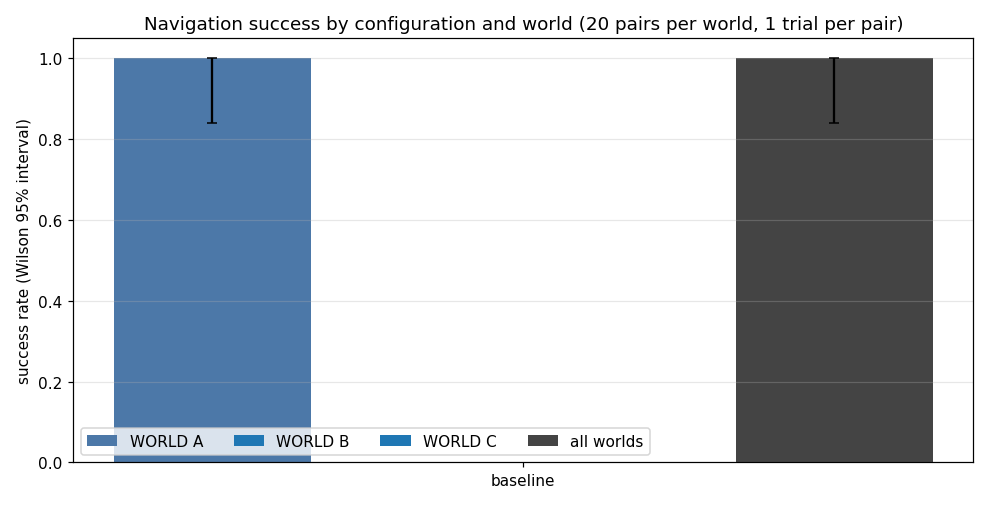
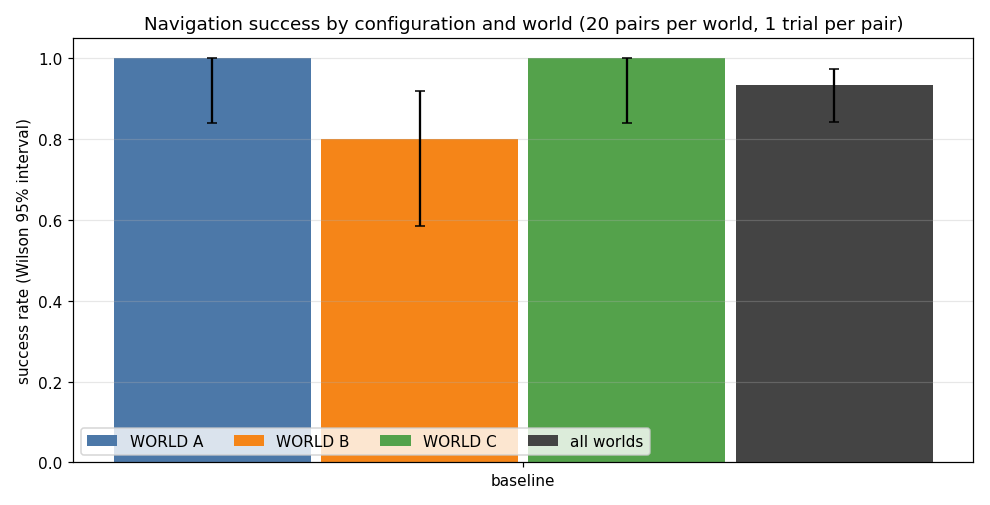
Phase 3: baseline results (60 trials), analysis outputs, baseline report and figure; Phase 3 gate

Changed region(s): [[0.303, 0.0891, 0.9394, 0.9208], [0.2121, 0.8614, 0.2727, 0.8911]]

diff --git a/docs/progress.md b/docs/progress.md
@@ -4,7 +4,7 @@ The external drive can crash, so this file is the memory of the project. Update 
 
 ## Current state
 - Date of last update: 2026-10-26
-- Phase: 3 in progress (owner approved 20 pairs and go-ahead 2026-10-26). Baseline runs: `scripts/run_config.sh baseline` (world A done 20/20; B and C running). Analysis: `scripts/analyse.py`. Done so far: `scripts/env.sh`, timing and real-time-factor check (stock robot), own Burger-based robot (`src/nav_study_robot`, URDF/SDF/bridge, tested in `test_arena`), STEP CAD file for Fusion 360 (`cad/`). Worlds A1/B1/C1 generated and checked; Nav2 configs generated (`configs/nav2/`); SLAM Toolbox maps for all three worlds saved (`maps/`). Left: map-to-world alignment, start/goal pairs, trial runner, metric tests, CI, factor check with own robot.
+- Phase: 3 done (2026-10-26): baseline 56/60 (A 20/20, B 16/20, C 20/20), report `docs/baseline.md`. Phase 4 next, awaiting owner go-ahead and a decision on world C. Done so far: `scripts/env.sh`, timing and real-time-factor check (stock robot), own Burger-based robot (`src/nav_study_robot`, URDF/SDF/bridge, tested in `test_arena`), STEP CAD file for Fusion 360 (`cad/`). Worlds A1/B1/C1 generated and checked; Nav2 configs generated (`configs/nav2/`); SLAM Toolbox maps for all three worlds saved (`maps/`). Left: map-to-world alignment, start/goal pairs, trial runner, metric tests, CI, factor check with own robot.
 - Environment: Ubuntu 24.04 external drive. `scripts/check_env.sh` reports all required items present (Nav2 1.3.13, SLAM Toolbox 2.8.5, Gazebo 8.15.0, pandas) after installing the 4 missing ones on 2026-10-26.
 - Last commit: see `git log -1`.
 
@@ -12,7 +12,7 @@ The external drive can crash, so this file is the memory of the project. Update 
 - [x] Phase 0: `docs/protocol.md` written, draft items in PLAN.md section 3 finalised with the owner, committed before any trial
 - [x] Phase 1: `scripts/check_env.sh` run, result in `docs/environment.md`, missing items installed, smoke test works
 - [x] Phase 2: robot, worlds, trial runner, tests, CI
-- [~] Phase 3: baseline (running)
+- [x] Phase 3: baseline
 - [ ] Phase 4: intervention
 - [ ] Phase 5: diagnosis
 - [ ] Phase 6: extension
@@ -35,6 +35,8 @@ A Nav2 configuration study in simulation: a differential-drive robot in Gazebo b
 
 - 2026-10-26: PROPOSED, awaiting owner: replace 2 repeats x 10 pairs by 1 repeat x 20 pairs per world (same 360 trials). Reason: repeats of the same pair vary by only about 2 percent in time (protocol change log (j)), so the second repeat is nearly redundant, while more pairs widen what the results generalise to and tighten the pair-level interval. Cost: pairs file must be extended (10 more per world, same script and seed rule) before any trial.
 
+- 2026-10-26: PROPOSED, awaiting owner: the baseline is at the ceiling in worlds A and C (20/20), so H2 (custom recovery raises success in the cluttered world) cannot be shown in C1 as built. Options: (a) keep the frozen design and report H2 as untestable in C1 (cost: none, a weak outcome for H2); (b) add a fourth, harder world D = layout C2 from the protocol (dense random boxes, 20 pairs; 120 more trials, about 1.5 h) as a clearly labelled addition made after seeing the baseline, results for A to C reported as originally designed; (c) make C1 harder (closer pillars) and rerun its baseline (changes a frozen world after seeing results; not recommended). Recommended: (b).
+
 ## Ideas parked (suggested, not adopted)
 - None yet.
 
@@ -43,9 +45,9 @@ A Nav2 configuration study in simulation: a differential-drive robot in Gazebo b
 - (resolved 2026-10-26: own robot modelled on TurtleBot 3 Burger.)
 
 ## Next steps
-1. Owner decides: keep 2 repeats x 10 pairs, or 1 repeat x 20 pairs per world (see Plan changes, PROPOSED). If 20 pairs: extend `configs/pairs.yaml` first.
-2. Phase 3: baseline runs (`scripts/run_session.sh baseline world_x 1 1 2`) for the three worlds, then analysis script with Wilson intervals and a baseline figure.
-3. (done in Phase 2:) Nav2 baseline config for our robot (`configs/`), then the trial runner (explicit zero cmd_vel at the end), metric unit tests, CI.
+1. Owner decides how to handle the ceiling in worlds A and C (see Ideas / Plan changes, PROPOSED: add a harder fourth world, or accept that H2 is untestable in C1).
+2. Phase 4: run `scripts/run_config.sh <config>` for smac2d, thetastar, dwb, rpp (4 x 60 trials, about 1 h each); the custom recovery node (config `recovery`) must be written first (Phase 6 item pulled forward, or run the 5 others first).
+3. (done:) Nav2 baseline config for our robot (`configs/`), then the trial runner (explicit zero cmd_vel at the end), metric unit tests, CI.
 3. Repeat the real-time-factor check with our robot and baseline, then log the chosen factor in the protocol change log.
 4. Owner: open `cad/nav_study_robot_v1.step` in Fusion 360 and report anything odd.
 
@@ -64,3 +66,4 @@ A Nav2 configuration study in simulation: a differential-drive robot in Gazebo b
 - 2026-10-26 (Ubuntu): Phase 2 build-out. Added `scripts/align_map.py` (-> `configs/map_alignment.yaml`: A 2.4 deg, B 0.22 m shift, C identity), `scripts/make_pairs.py` (-> `configs/pairs.yaml`, 10 per world, seed 20261026), `src/nav_study_trials` (metrics.py + runner.py, 8 unit tests), `tests/test_study_files.py` (8 tests), `.github/workflows/ci.yml`, `scripts/run_session.sh`, `rtf_check_robot.sh`, `determinism_check.sh`. First end-to-end trials work. Protocol change log (g) success tolerance 0.5 m, (h) real-time factor 1, (i) reset verification, (j) repeatability. Validation CSVs in `results/validation/` (not study data). Left: CI result, Phase 2 screenshot, gate report.
 - 2026-10-26 (Ubuntu): Phase 2 gate. CI fixed twice (git missing in the ros:jazzy image; nav_study_robot installed an untracked empty launch/ dir) and is green. Final figure `docs/figures/phase2-robot-in-world-b.png`; README updated. Temporary screenshots deleted.
 - 2026-10-26 (Ubuntu): Owner chose 20 pairs per world (protocol change (k)); pairs extended (first 10 unchanged). Added `analysis.py` (pre-registered decision rule + 5 unit tests), `scripts/analyse.py`, `scripts/run_config.sh`. Baseline world A: 20/20 succeeded. World B running (first timeouts seen).
+- 2026-10-26 (Ubuntu): Phase 3 baseline complete: 60 trials, 56 succeeded; failures all in world B (3 timeouts, 1 abort; 2 with AMCL error above 0.5 m). Zero collisions. `docs/baseline.md` written, figure `phase3-baseline-success.png`. Open: world-C ceiling (proposal above).

diff --git a/docs/baseline.md b/docs/baseline.md
@@ -1,0 +1,34 @@
+# Phase 3: baseline results
+
+Configuration: **baseline** = shipped Nav2 1.3.13 defaults (NavFn planner, MPPI controller) with only the robot-specific edits (`configs/nav2/CHANGES.md`), SLAM Toolbox map plus AMCL, real-time factor 1. 20 start/goal pairs per world, 1 trial per pair, 60 trials. Trials ran 2026-10-26 in session order A, B, C (session seeds 11, 12, 13; trials shuffled within a session). Raw rows: `results/trials/baseline_world_*.csv`; tables generated by `scripts/analyse.py` into `results/summary.md`.
+
+| world | trials | succeeded | success rate (Wilson 95% interval) | median time (successes) | median path | recoveries per trial | mean AMCL error |
+|---|---|---|---|---|---|---|---|
+| A1 open room | 20 | 20 | 1.00 (0.84 to 1.00) | 44.4 s | 8.4 m | 0.10 | 0.13 m |
+| B1 office | 20 | 16 | 0.80 (0.58 to 0.92) | 64.3 s | 13.0 m | 0.30 | 0.17 m |
+| C1 pillar grid | 20 | 20 | 1.00 (0.84 to 1.00) | 57.8 s | 10.6 m | 1.35 | 0.13 m |
+| all | 60 | 56 | 0.93 (0.84 to 0.97) | 53.9 s | 10.5 m | 0.58 | 0.14 m |
+
+Collisions: 0 contact episodes in all 60 trials. No invalid trials; every reset was accepted at the first attempt.
+
+![Baseline success rate by world](figures/phase3-baseline-success.png)
+
+## The four failures (all in world B)
+| pair | outcome | path driven | AMCL error near the end | reading |
+|---|---|---|---|---|
+| b02 | timeout, 120 s | 18.1 m | up to 1.08 m (localisation failure by the protocol rule) | lost localisation, then wandered |
+| b11 | timeout, 120 s | 18.4 m | up to 0.79 m (localisation failure) | same pattern |
+| b04 | aborted by Nav2 at 90 s | 14.5 m | up to 0.43 m | planning/control (after recoveries) |
+| b20 | timeout, 120 s | 18.0 m | up to 0.37 m | planning/control, no localisation failure |
+
+So 2 of 4 failures coincide with large localisation error and 2 do not. With 4 failures this is a description, not a test.
+
+## What this baseline can and cannot say
+- Worlds A and C are at the ceiling (20 of 20). In those worlds a configuration cannot show an improvement in success rate, only a decrease or a change in time, path, recoveries. All the room to improve success is in world B (4 failures of 20).
+- Preliminary, not a hypothesis test: H3 expected the highest localisation error and localisation-driven failures in the most symmetric world (C1). In the baseline, C1 has the same mean AMCL error as A1 (0.13 m) and no failures, while the highest error and all failures are in B1. H3 looks unsupported so far; the formal statement waits for the full study.
+- Intervals are wide: 20 trials per world give a Wilson interval of about 0.84 to 1.00 even at 20 of 20.
+- One trial per pair. Repeating a pair in the same session varied by about 2% in time (protocol change log (j)), measured on one pair only.
+- Simulation only: LiDAR noise is Gaussian with 0.01 m standard deviation; there is no wheel slip model beyond the default friction, no lighting, no latency. Maps come from default SLAM Toolbox with a 3.5 m LiDAR; they are rotated 0.6 to 2.4 degrees from the world and have unobserved patches (`docs/figures/maps-slam.png`).
+- Collisions: zero everywhere, so the collision metric carries no information for the baseline. It was verified to work in the test arena (wheel against a wall), not yet in a study world with a deliberate contact.
+- AMCL, Nav2 and Gazebo physics are not bit-reproducible; re-running gives close but not identical numbers.
+- The 0.5 m ground-truth arrival tolerance (protocol change (g)) was set before these trials; the exact final error of each trial is in the CSV.

diff --git a/PHASES.md b/PHASES.md
@@ -1,13 +1,13 @@
 # Project phases and status
 
-Standard shape: see the workspace `docs/phases.md`. Status: **Phases 0, 1 and 2 done (all 2026-10-26); next: Phase 3 (baseline), awaiting the owner's go-ahead and decision on repeats versus pairs.** Detailed plan written 2026-10-26: see `PLAN.md` (stack: ROS 2 Jazzy, Gazebo Harmonic, Nav2, Ubuntu 24.04 native on an external SATA drive). Phases follow `docs/master-plan.md` section 4; they may change as work proceeds.
+Standard shape: see the workspace `docs/phases.md`. Status: **Phases 0 to 3 done (all 2026-10-26); next: Phase 4 (intervention), awaiting the owner's go-ahead and a decision on world C (see `docs/baseline.md`).** Detailed plan written 2026-10-26: see `PLAN.md` (stack: ROS 2 Jazzy, Gazebo Harmonic, Nav2, Ubuntu 24.04 native on an external SATA drive). Phases follow `docs/master-plan.md` section 4; they may change as work proceeds.
 
 | Phase | Content | Status |
 |---|---|---|
 | 0. Scope and protocol | Research question (how do Nav2 planner/controller settings and recovery behaviours change success, collisions, time and path length); trial counts and metrics fixed before any trial. Frozen in `docs/protocol.md` v1; decision rule changed to pair-level paired bootstrap; layouts A1, B1, C1 | done |
 | 1. Setup | ROS 2 Jazzy with Gazebo Harmonic and Nav2 on Ubuntu 24.04 running natively from an external drive (version table checked against REP-2000 on 2026-10-26; re-verify packages before installing); versions and licences recorded; smoke test; containerised one-command simulation comes in Phase 7. Done: `docs/environment.md`, `scripts/smoke_test.sh` | done |
 | 2. Pipeline and validation | Differential-drive robot with LiDAR and odometry in simulation; automated trial runner logging CSV; seeds and start/goal pairs fixed . Done: own Burger-based robot (`src/nav_study_robot`), STEP CAD for Fusion 360 (`cad/`), worlds A1/B1/C1, SLAM Toolbox maps, Nav2 configurations (`configs/nav2/`), 30 start/goal pairs, trial runner with metric unit tests, CI green; gate: repeats of one trial vary by about 2 percent (not bit-identical), real-time factor fixed at 1 | done |
-| 3. Baseline | SLAM Toolbox mapping, AMCL localisation, default Nav2 across three or more worlds of increasing difficulty | planned |
+| 3. Baseline | SLAM Toolbox mapping, AMCL localisation, default Nav2 across three or more worlds of increasing difficulty . Done: 60 trials (20 pairs x 3 worlds, `results/trials/baseline_*.csv`), `docs/baseline.md`; 56 of 60 succeeded (A 20/20, B 16/20, C 20/20) | done |
 | 4. Intervention | Controller and planner comparison, recovery behaviour on/off, 20 or more trials per condition | planned |
 | 5. Diagnosis and iteration | Explain failures from logs and short rosbag excerpts | planned |
 | 6. Extension | Custom mission/waypoint node and custom recovery behaviour, effect isolated by the on/off ablation; simulated thermal camera in Gazebo for later use by Project 3 | planned |

diff --git a/README.md b/README.md
@@ -1,6 +1,6 @@
 # ROS 2 Mobile Robot: SLAM, Localization and Navigation
 
-**Status: Phase 2 of 7 (pipeline and validation) complete; no study results yet**
+**Status: Phase 3 of 7 (baseline) complete; the configuration comparison is next**
 
 A simulated differential-drive robot that maps an unknown environment, localizes itself, and navigates to goals while avoiding obstacles, built on mature ROS 2 packages (SLAM Toolbox, AMCL, Nav2).
 
@@ -32,8 +32,12 @@ One final screenshot per phase, with captions, in [docs/figures](docs/figures/RE
 
 ![The three study worlds (plans generated from the SDF files)](docs/figures/world-plans.png)
 
-## Results
-None yet.
+## Results so far
+Baseline (shipped Nav2 defaults, 60 trials): 56 of 60 reached the goal (93%, 95% interval 0.84 to 0.97); world A 20/20, world B 16/20, world C 20/20; no collisions. Details, limits and the four failures: [docs/baseline.md](docs/baseline.md).
+
+![Baseline success by world](docs/figures/phase3-baseline-success.png)
+
+The comparison of planners, controllers and the custom recovery behaviour (Phase 4) has not been run yet.
 
 ## Notes
 My contribution is configuration, integration, custom behaviours, experiments and interpretation, not a reimplementation of SLAM or Nav2.

diff --git a/docs/figures/README.md b/docs/figures/README.md
@@ -8,4 +8,5 @@ One final screenshot per phase, named `phaseN-<what>.png`, for the README and th
 | `world-plans.png` | 2, pipeline | Top-down plans of the three study worlds (A1 open room, B1 office, C1 pillar grid). A drawing generated from the SDF files by `scripts/plot_worlds.py`, not a screenshot. | `python3 scripts/plot_worlds.py` |
 | `maps-slam.png` | 2, pipeline | The three saved SLAM Toolbox maps (white free, grey unknown, black occupied). Slight rotation (about 1 to 2 degrees) and unobserved patches are real SLAM limits, not drawing errors. | `scripts/map_world.sh world_x 2`, then `python3 scripts/plot_maps.py` |
 | `phase2-robot-in-world-b.png` | 2, pipeline (final figure) | Gazebo Sim 3D view: our own Burger-based robot (body, LiDAR, two wheels) in the corridor of world B1 (office). Cropped to the 3D view. | `ros2 launch nav_study_bringup sim.launch.py world:=world_b headless:=false x:=-3.0`, camera moved with `gz service /gui/move_to/pose`, 2026-10-26 |
+| `phase3-baseline-success.png` | 3, baseline (final figure) | Baseline success rate per world with Wilson 95% intervals (20 trials per world). Generated chart. | `PYTHONPATH=src/nav_study_trials python3 scripts/analyse.py` after `scripts/run_config.sh baseline` |
 

diff --git a/results/summary.md b/results/summary.md
@@ -5,4 +5,13 @@ Success rate with Wilson 95% interval; time and path are medians over successful
 | config | world | valid/total | successes | success rate (95% CI) | median time s | median path m | collisions/trial | recoveries/trial | mean loc. error m |
 |---|---|---|---|---|---|---|---|---|---|
 | baseline | world_a | 20/20 | 20 | 1.00 (0.84 to 1.00) | 44.4 | 8.41 | 0.00 | 0.10 | 0.128 |
-| baseline | all | 20/20 | 20 | 1.00 (0.84 to 1.00) | 44.4 | 8.41 | 0.00 | 0.10 | 0.128 |
+| baseline | world_b | 20/20 | 16 | 0.80 (0.58 to 0.92) | 64.3 | 12.99 | 0.00 | 0.30 | 0.169 |
+| baseline | world_c | 20/20 | 20 | 1.00 (0.84 to 1.00) | 57.8 | 10.60 | 0.00 | 1.35 | 0.127 |
+| baseline | all | 60/60 | 56 | 0.93 (0.84 to 0.97) | 53.9 | 10.53 | 0.00 | 0.58 | 0.142 |
+
+## Failure reasons (valid trials)
+
+| config | world | reason | count |
+|---|---|---|---|
+| baseline | world_b | nav2_aborted | 1 |
+| baseline | world_b | timeout | 3 |
